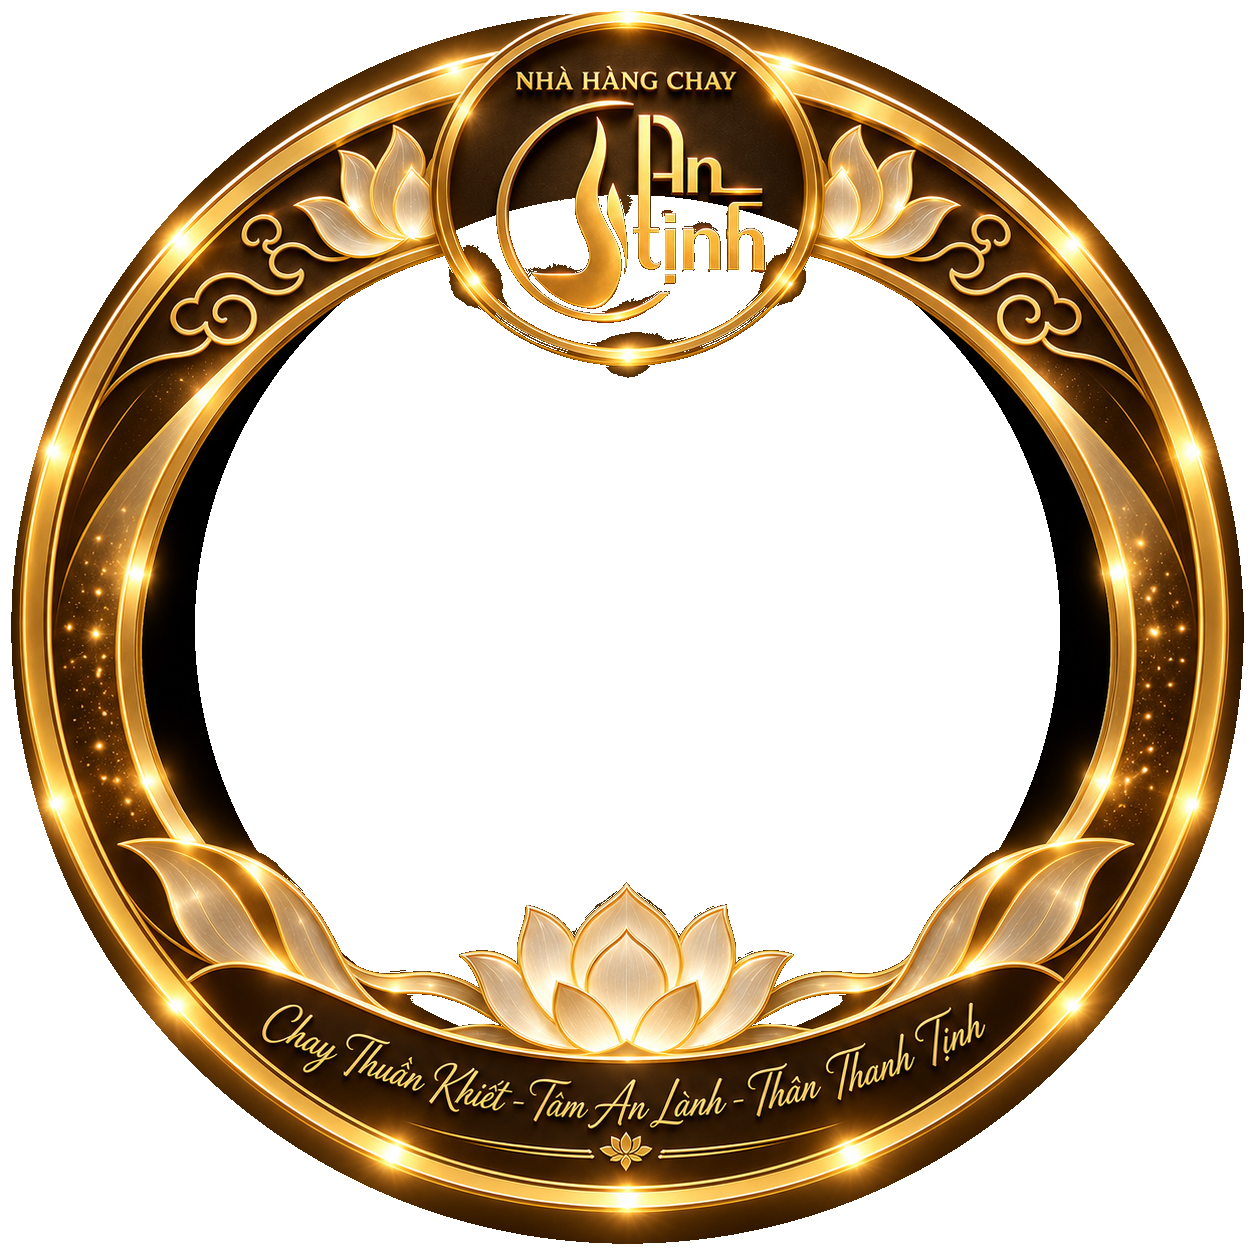
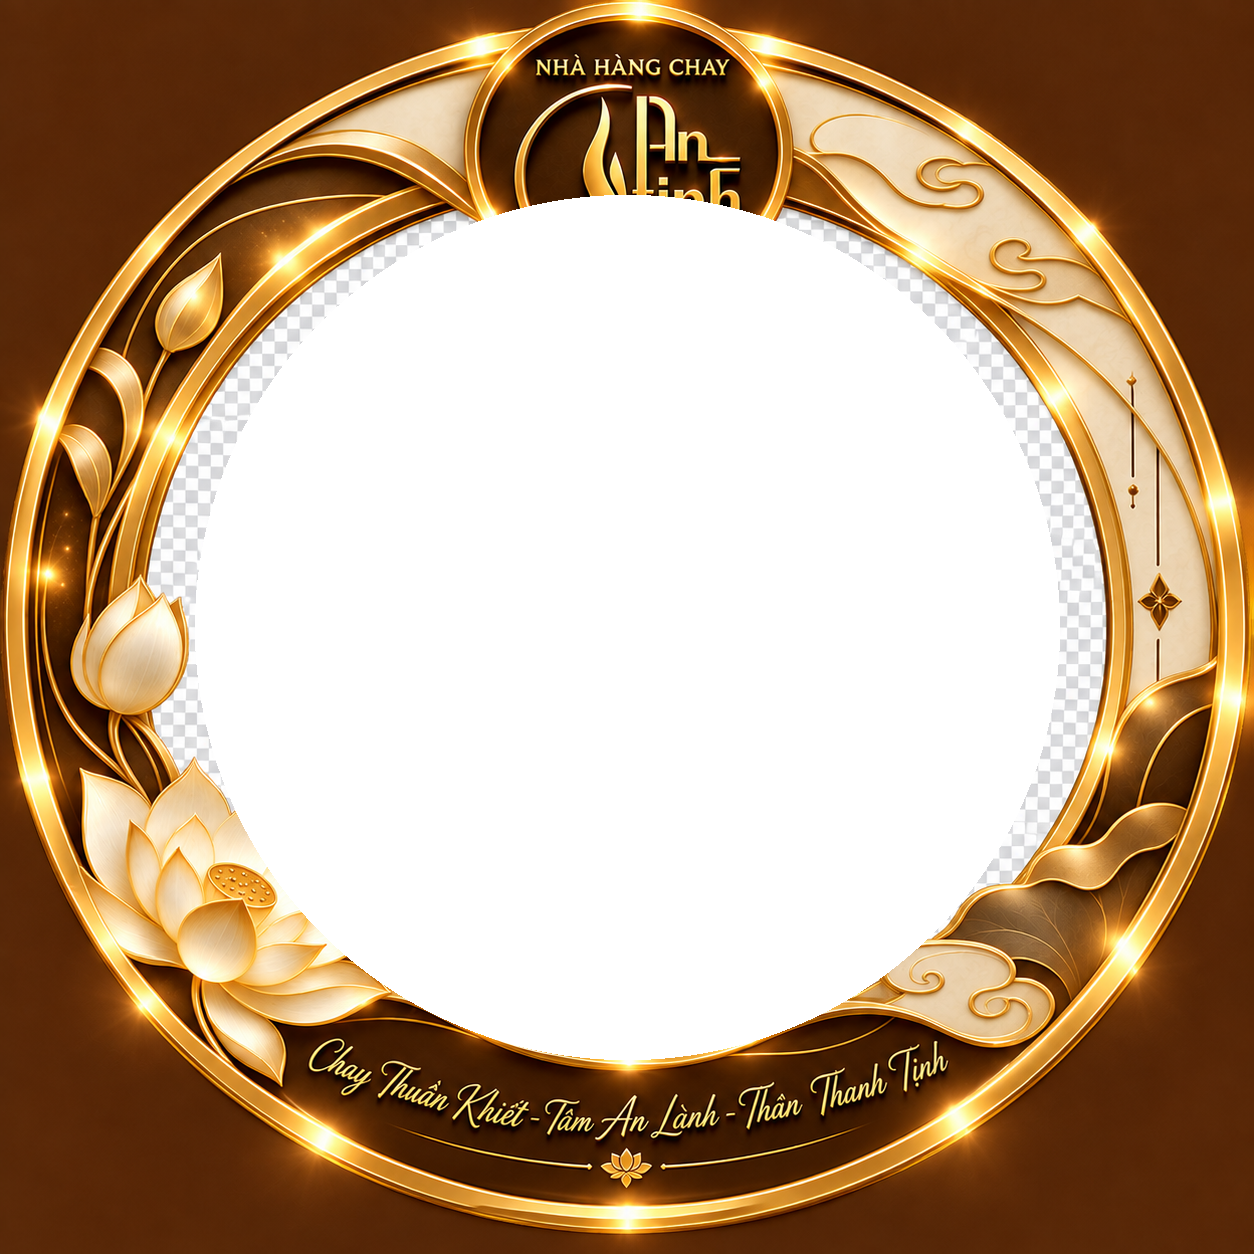
Cập nhật website tạo ảnh đại diện An Tịnh

diff --git a/index.html b/index.html
@@ -1,105 +1,46 @@
-<!doctype html>
+<!DOCTYPE html>
 <html lang="vi">
 <head>
-<meta charset="utf-8">
-<meta name="viewport" content="width=device-width,initial-scale=1,maximum-scale=1,user-scalable=no">
-<title>Tạo ảnh đại diện – Nhà Hàng Chay An Tịnh</title>
-<style>
-*{box-sizing:border-box}
-body{margin:0;font-family:Arial,Helvetica,sans-serif;background:#17100a;color:#f7e8c2}
-.wrap{max-width:760px;margin:auto;padding:18px 14px 34px}
-h1{text-align:center;font-size:24px;margin:8px 0 4px}
-.sub{text-align:center;opacity:.85;font-size:14px;margin-bottom:16px}
-.card{background:#24170d;border:1px solid #7b5524;border-radius:18px;padding:16px;box-shadow:0 12px 35px #0008}
-.controls{display:grid;gap:10px}
-button,.upload{border:0;border-radius:12px;padding:13px 15px;font-weight:700;font-size:15px;cursor:pointer}
-.upload{display:block;text-align:center;background:#d7a94d;color:#211306}
-button{background:#f0c76a;color:#211306}
-button.secondary{background:#4b351d;color:#f7e8c2}
-input[type=file]{display:none}
-input[type=range]{width:100%}
-.preview{display:flex;justify-content:center;margin:15px 0}
-canvas{width:min(92vw,560px);height:min(92vw,560px);border-radius:50%;background:#0c0906;box-shadow:0 0 0 1px #a9762e,0 10px 35px #000b;touch-action:none}
-.note{text-align:center;font-size:12px;opacity:.7;margin-top:10px;line-height:1.45}
-.row{display:grid;grid-template-columns:1fr 1fr;gap:10px}
-label.small{font-size:13px;opacity:.9}
-</style>
+  <meta charset="UTF-8">
+  <meta name="viewport" content="width=device-width, initial-scale=1.0">
+  <title>Ảnh đại diện An Tịnh</title>
+  <link rel="stylesheet" href="style.css">
 </head>
 <body>
-<div class="wrap">
-  <h1>ẢNH ĐẠI DIỆN AN TỊNH</h1>
-  <div class="sub">Tải ảnh của bạn lên • Căn chỉnh • Tải ảnh đại diện có khung</div>
-  <div class="card">
-    <div class="controls">
-      <label class="upload" for="file">📷 Chọn ảnh từ điện thoại / máy tính</label>
-      <input id="file" type="file" accept="image/*">
-      <div class="preview"><canvas id="canvas" width="1080" height="1080"></canvas></div>
-      <label class="small">Phóng to / thu nhỏ</label>
-      <input id="zoom" type="range" min="0.5" max="2.5" step="0.01" value="1">
-      <div class="row">
-        <button class="secondary" id="reset">↺ Căn lại</button>
-        <button id="download">⬇ Tải ảnh đại diện</button>
+  <main class="container">
+    <header>
+      <h1>ẢNH ĐẠI DIỆN AN TỊNH</h1>
+      <p>Tạo ảnh đại diện với khung chính thức của Nhà Hàng Chay An Tịnh</p>
+    </header>
+
+    <section class="card">
+      <label class="upload-btn" for="photoInput">📷 CHỌN ẢNH CỦA BẠN</label>
+      <input id="photoInput" type="file" accept="image/*">
+
+      <div class="preview">
+        <canvas id="canvas" width="1080" height="1080"></canvas>
       </div>
-    </div>
-    <div class="note">Bạn có thể kéo ảnh trực tiếp trên khung để căn khuôn mặt. Ảnh xuất ra dạng PNG vuông, phù hợp làm ảnh đại diện Zalo.</div>
-  </div>
-</div>
 
-<script>
-const canvas=document.getElementById('canvas'), ctx=canvas.getContext('2d');
-const file=document.getElementById('file'), zoom=document.getElementById('zoom');
-const frame=new Image(); frame.src='khung_an_tinh.png';
-let photo=null, scale=1, ox=0, oy=0, dragging=false, sx=0, sy=0, startX=0, startY=0;
+      <div class="tools">
+        <label for="zoom">Phóng to / thu nhỏ</label>
+        <input id="zoom" type="range" min="0.5" max="2.5" value="1" step="0.01">
 
-function draw(){
-  const W=canvas.width,H=canvas.height;
-  ctx.clearRect(0,0,W,H);
-  ctx.save();
-  ctx.beginPath();ctx.arc(W/2,H/2,W/2-4,0,Math.PI*2);ctx.clip();
-  ctx.fillStyle='#111';ctx.fillRect(0,0,W,H);
-  if(photo){
-    const base=Math.max(W/photo.width,H/photo.height);
-    const s=base*scale;
-    const dw=photo.width*s, dh=photo.height*s;
-    ctx.drawImage(photo,(W-dw)/2+ox,(H-dh)/2+oy,dw,dh);
-  }
-  ctx.restore();
-  ctx.drawImage(frame,0,0,W,H);
-}
-frame.onload=draw;
+        <div class="buttons">
+          <button id="resetBtn" class="secondary">↺ CĂN LẠI</button>
+          <button id="downloadBtn">⬇ TẢI ẢNH ĐẠI DIỆN</button>
+        </div>
+      </div>
 
-file.onchange=e=>{
-  const f=e.target.files[0]; if(!f)return;
-  const r=new FileReader();
-  r.onload=()=>{const im=new Image();im.onload=()=>{photo=im;scale=1;ox=0;oy=0;zoom.value=1;draw()};im.src=r.result};
-  r.readAsDataURL(f);
-};
-zoom.oninput=()=>{scale=+zoom.value;draw()};
-document.getElementById('reset').onclick=()=>{scale=1;ox=0;oy=0;zoom.value=1;draw()};
+      <p class="note">
+        Sau khi chọn ảnh, kéo ảnh để căn chỉnh khuôn mặt và dùng thanh bên trên để phóng to/thu nhỏ.
+      </p>
+    </section>
 
-function point(e){
-  const r=canvas.getBoundingClientRect();
-  return {x:(e.clientX-r.left)*(canvas.width/r.width),y:(e.clientY-r.top)*(canvas.height/r.height)};
-}
-canvas.addEventListener('pointerdown',e=>{
-  if(!photo)return;
-  dragging=true; canvas.setPointerCapture(e.pointerId);
-  const p=point(e); sx=p.x;sy=p.y;startX=ox;startY=oy;
-});
-canvas.addEventListener('pointermove',e=>{
-  if(!dragging)return;
-  const p=point(e);ox=startX+p.x-sx;oy=startY+p.y-sy;draw();
-});
-canvas.addEventListener('pointerup',()=>dragging=false);
-canvas.addEventListener('pointercancel',()=>dragging=false);
-
-document.getElementById('download').onclick=()=>{
-  if(!photo){alert('Vui lòng chọn ảnh trước.');return}
-  const a=document.createElement('a');
-  a.download='anh-dai-dien-An-Tinh.png';
-  a.href=canvas.toDataURL('image/png');
-  a.click();
-};
-</script>
+    <footer>
+      <strong>NHÀ HÀNG CHAY AN TỊNH</strong>
+      <span>Chay Thuần Khiết - Tâm An Lành - Thân Thanh Tịnh</span>
+    </footer>
+  </main>
+  <script src="script.js"></script>
 </body>
 </html>

diff --git a/script.js b/script.js
@@ -1,0 +1,116 @@
+const canvas = document.getElementById("canvas");
+const ctx = canvas.getContext("2d");
+const input = document.getElementById("photoInput");
+const zoom = document.getElementById("zoom");
+const resetBtn = document.getElementById("resetBtn");
+const downloadBtn = document.getElementById("downloadBtn");
+
+const frame = new Image();
+frame.src = "khung_an_tinh.png";
+
+let photo = null;
+let scale = 1;
+let offsetX = 0;
+let offsetY = 0;
+let dragging = false;
+let startX = 0, startY = 0, startOX = 0, startOY = 0;
+
+function draw(){
+  const W = canvas.width, H = canvas.height;
+  ctx.clearRect(0,0,W,H);
+
+  // Brown background outside the circular avatar.
+  ctx.fillStyle = "#4a2815";
+  ctx.fillRect(0,0,W,H);
+
+  // Perfectly circular photo area.
+  ctx.save();
+  ctx.beginPath();
+  ctx.arc(W/2,H/2,Math.min(W,H)*0.345,0,Math.PI*2);
+  ctx.clip();
+
+  if(photo){
+    const base = Math.max(W/photo.width, H/photo.height);
+    const s = base * scale;
+    const dw = photo.width*s, dh = photo.height*s;
+    ctx.drawImage(photo, (W-dw)/2+offsetX, (H-dh)/2+offsetY, dw, dh);
+  } else {
+    ctx.fillStyle = "#21130b";
+    ctx.fillRect(0,0,W,H);
+  }
+  ctx.restore();
+
+  // Frame artwork is above the user's photo.
+  if(frame.complete) ctx.drawImage(frame,0,0,W,H);
+}
+
+frame.onload = draw;
+
+input.addEventListener("change", e=>{
+  const file = e.target.files[0];
+  if(!file) return;
+  const reader = new FileReader();
+  reader.onload = ()=>{
+    const im = new Image();
+    im.onload = ()=>{
+      photo = im;
+      scale = 1;
+      offsetX = 0;
+      offsetY = 0;
+      zoom.value = 1;
+      draw();
+    };
+    im.src = reader.result;
+  };
+  reader.readAsDataURL(file);
+});
+
+zoom.addEventListener("input", ()=>{
+  scale = Number(zoom.value);
+  draw();
+});
+
+resetBtn.addEventListener("click", ()=>{
+  scale = 1; offsetX = 0; offsetY = 0;
+  zoom.value = 1;
+  draw();
+});
+
+function pointer(e){
+  const r = canvas.getBoundingClientRect();
+  return {
+    x:(e.clientX-r.left)*(canvas.width/r.width),
+    y:(e.clientY-r.top)*(canvas.height/r.height)
+  };
+}
+
+canvas.addEventListener("pointerdown", e=>{
+  if(!photo) return;
+  dragging = true;
+  canvas.setPointerCapture(e.pointerId);
+  const p = pointer(e);
+  startX=p.x; startY=p.y;
+  startOX=offsetX; startOY=offsetY;
+});
+canvas.addEventListener("pointermove", e=>{
+  if(!dragging) return;
+  const p=pointer(e);
+  offsetX=startOX+(p.x-startX);
+  offsetY=startOY+(p.y-startY);
+  draw();
+});
+canvas.addEventListener("pointerup", ()=>dragging=false);
+canvas.addEventListener("pointercancel", ()=>dragging=false);
+
+downloadBtn.addEventListener("click", ()=>{
+  if(!photo){
+    alert("Vui lòng chọn ảnh trước.");
+    return;
+  }
+  const a=document.createElement("a");
+  a.download="Anh-dai-dien-An-Tinh.png";
+  a.href=canvas.toDataURL("image/png");
+  a.click();
+});
+
+draw();

diff --git a/style.css b/style.css
@@ -1,0 +1,47 @@
+*{box-sizing:border-box}
+body{
+  margin:0;
+  min-height:100vh;
+  background:#4a2815;
+  color:#f7e3b1;
+  font-family:Arial,Helvetica,sans-serif;
+}
+.container{width:min(100%,720px);margin:auto;padding:22px 14px 35px}
+header{text-align:center;margin-bottom:18px}
+h1{margin:4px 0 7px;font-size:27px;letter-spacing:1px;color:#ffd978}
+header p{margin:0;color:#e6c88c;font-size:14px}
+.card{
+  background:#2b180d;
+  border:1px solid #a56e2b;
+  border-radius:20px;
+  padding:16px;
+  box-shadow:0 12px 35px #0008;
+}
+.upload-btn,button{
+  display:block;width:100%;border:0;border-radius:12px;
+  padding:14px 16px;font-size:15px;font-weight:700;cursor:pointer;
+}
+.upload-btn{background:#d8a846;color:#241407;text-align:center}
+#photoInput{display:none}
+.preview{display:flex;justify-content:center;padding:16px 0}
+canvas{
+  width:min(92vw,600px);
+  height:min(92vw,600px);
+  display:block;
+  border-radius:50%;
+  background:#351b0d;
+  touch-action:none;
+}
+.tools label{display:block;font-size:13px;margin:3px 0 6px;color:#e9cf9a}
+#zoom{width:100%;accent-color:#d9a946}
+.buttons{display:grid;grid-template-columns:1fr 1.5fr;gap:10px;margin-top:12px}
+button{background:#e0b14f;color:#241407}
+button.secondary{background:#52321c;color:#f3d99f}
+.note{text-align:center;color:#c9a974;font-size:12px;line-height:1.5;margin:13px 2px 2px}
+footer{text-align:center;margin-top:18px;font-size:12px;color:#d6b579}
+footer strong{display:block;color:#f0c86c;margin-bottom:5px}
+footer span{display:block}
+@media(max-width:480px){
+  h1{font-size:22px}
+  .buttons{grid-template-columns:1fr}
+}
